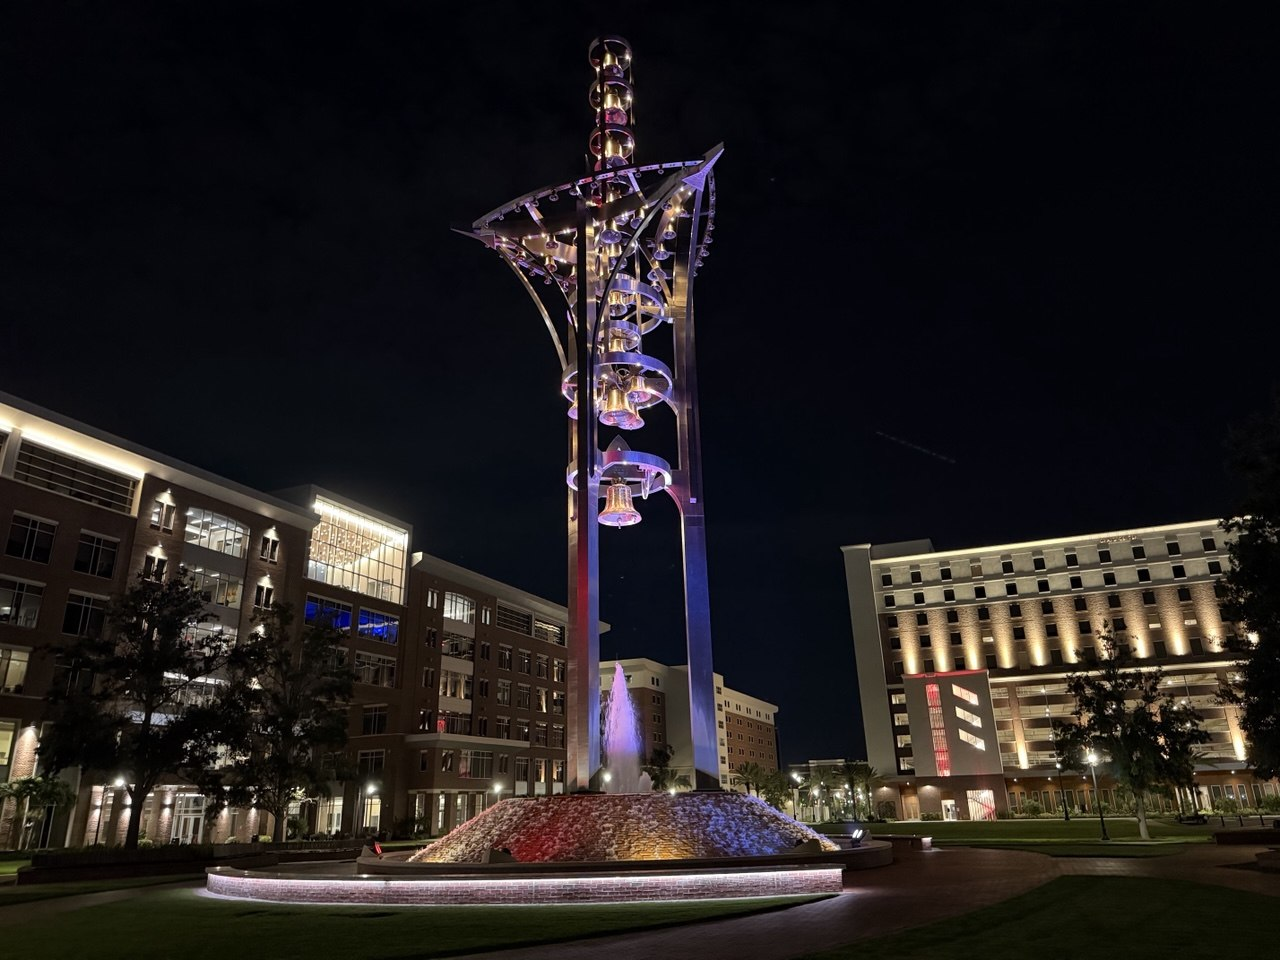
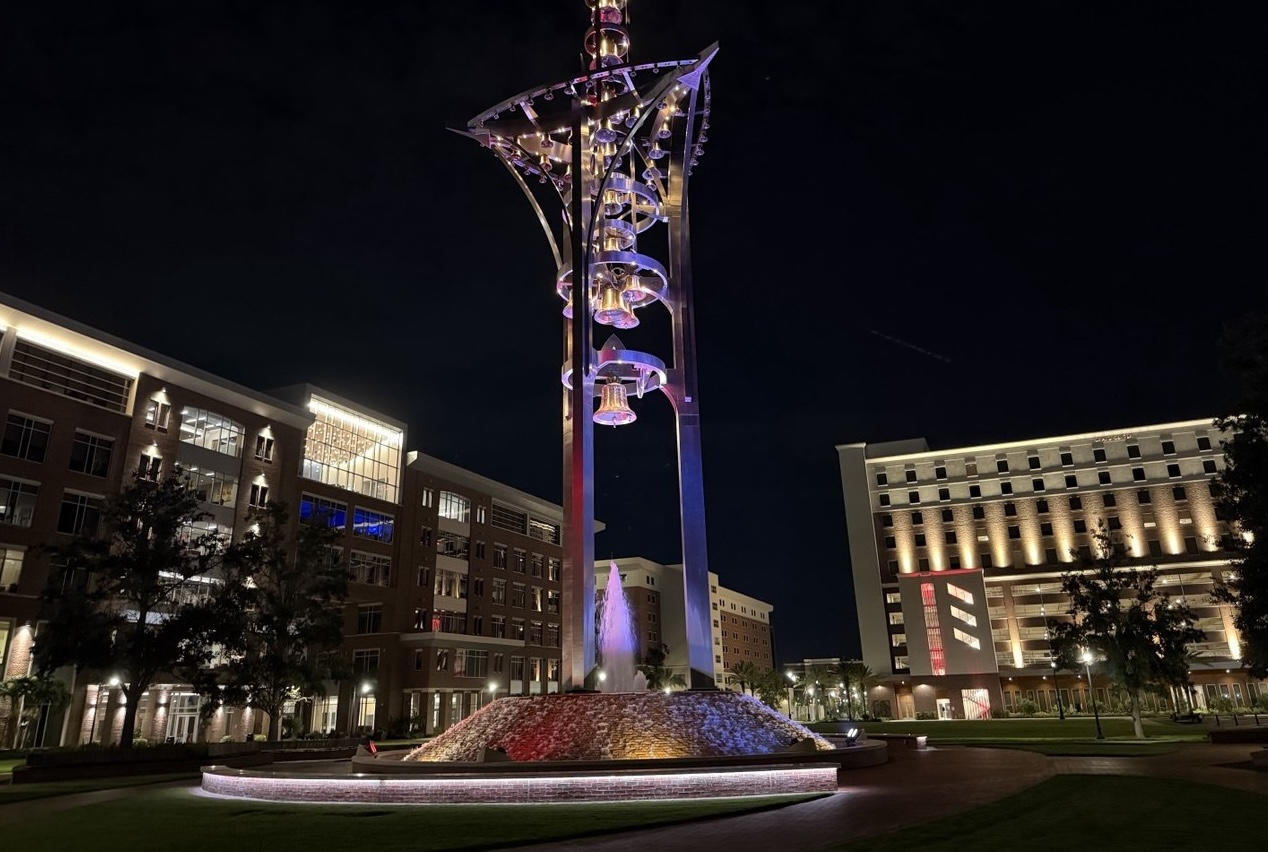
Add files via upload

Changed region(s): [[0.0, 0.0, 1.0, 0.9765], [0.3383, 0.9765, 0.4921, 1.0]]

diff --git a/index.html b/index.html
@@ -235,8 +235,7 @@ button{cursor:pointer}
 <header id="nav" class="fixed inset-x-0 top-3 z-50 px-3 sm:px-5">
   <div class="nav-pill mx-auto flex h-14 max-w-6xl items-center justify-between rounded-full px-2.5 sm:h-16 sm:px-3.5">
     <a href="#top" class="flex min-w-0 items-center gap-3" aria-label="Максим Дубцов — на главную">
-      <span class="serif grid h-10 w-10 flex-none place-items-center rounded-full bg-ink text-[15px] font-semibold text-white">МД</span>
-      <span class="min-w-0 leading-tight">
+    <img src="logo.jpg" alt="Максим Дубцов" class="h-10 w-10 flex-none rounded-full object-cover">      <span class="min-w-0 leading-tight">
         <span class="block truncate text-[14.5px] font-semibold">US GRANT</span>
       </span>
     </a>
@@ -875,8 +874,8 @@ button{cursor:pointer}
         </div>
         
         <div class="faq-item">
-          <button type="button" class="faq-btn flex w-full items-center justify-between gap-6 py-6 text-left" aria-expanded="false"><span class="serif text-[1.15rem] font-medium sm:text-[1.3rem]">Чем это отличается от курса с видеоуроками?</span><i data-lucide="plus" class="plus h-6 w-6 flex-none text-emerald"></i></button>
-          <div class="faq-body"><div><p class="pb-7 pr-10 text-[15.5px] leading-relaxed text-slate">Это личная работа. Я читаю твои черновики, отвечаю в Telegram и подстраиваю советы под твой профиль. Когда сто человек учатся по одному видео, их эссе начинают походить друг на друга, а комиссия замечает такие совпадения.</p></div></div>
+          <button type="button" class="faq-btn flex w-full items-center justify-between gap-6 py-6 text-left" aria-expanded="false"><span class="serif text-[1.15rem] font-medium sm:text-[1.3rem]">Чем это отличается от общих советов?</span><i data-lucide="plus" class="plus h-6 w-6 flex-none text-emerald"></i></button>
+          <div class="faq-body"><div><p class="pb-7 pr-10 text-[15.5px] leading-relaxed text-slate">Это личная работа. Я читаю твои черновики, отвечаю в Telegram и подстраиваю под твой профиль. Когда сто человек следуют одному шаблону, их эссе начинают походить друг на друга, а комиссия замечает такие совпадения.</p></div></div>
         </div>
 
       </div>
